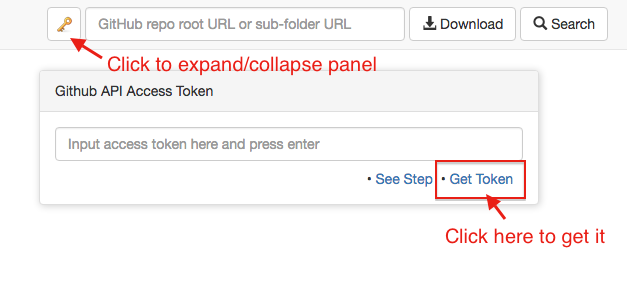
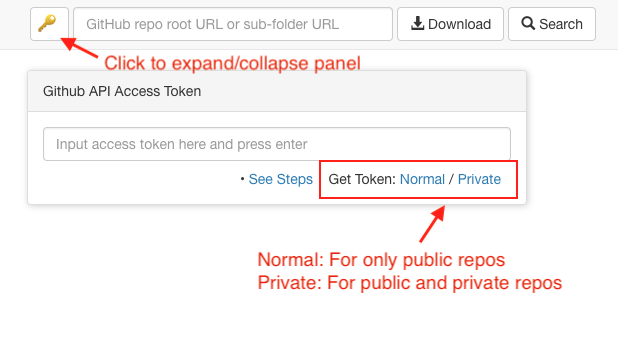
Fix #17 for both get public and private token.

Changed region(s): [[0.0615, 0.3701, 0.9838, 0.8826], [0.0615, 0.0, 0.9838, 0.3416], [0.6764, 0.0, 0.7994, 0.0285]]

diff --git a/index.html b/index.html
@@ -206,20 +206,22 @@
 				<input id="tokenInput" type="text" class="form-control" placeholder="Input access token here and press enter">
 				<div class="token-right">
 					&nbsp;&bull;&nbsp;<a href="https://github.com/KinoLien/gitzip/blob/gh-pages/get-token-step.md" target="_blank">See Steps</a>
-					&nbsp;&bull;&nbsp;<a href="https://github.com/login/oauth/authorize?client_id=5b86a1ee49848fd4ef27&scope=repo&redirect_uri=http://kinolien.github.io/gitzip/">Get Token</a>
+					&nbsp;&nbsp;&nbsp;Get Token:
+					<a href="https://github.com/login/oauth/authorize?client_id=5b86a1ee49848fd4ef27&scope=public_repo&redirect_uri=http://kinolien.github.io/gitzip/">Normal</a>&nbsp;/
+					<a href="https://github.com/login/oauth/authorize?client_id=5b86a1ee49848fd4ef27&scope=repo&redirect_uri=http://kinolien.github.io/gitzip/">Private</a>
 				</div>
 			</form>
 		</div>
 	</div>
 
-	<div id="extensionMessage" class="container" style="display: none;">
+	<!-- <div id="extensionMessage" class="container" style="display: none;">
 		<div class="alert alert-success alert-dismissable">
 		  <a href="#" class="close" data-dismiss="alert" aria-label="close">&times;</a>
 		  <a href="https://chrome.google.com/webstore/detail/gitzip-for-github/ffabmkklhbepgcgfonabamgnfafbdlkn" target="_blank"><strong>GitZip for github 0.2.0</strong></a> Chrome extension now available!
 		  <p>1. An option for get private token.</p>
       	  <p>2. Fix some errors about double click not work.</p>
 		</div>
-	</div>
+	</div> -->
 	<div id="pathContainer" class="container" style="display:none;">
 		<p class="lead">Path: <span id="pathLead"></span></p>
 	</div>
@@ -573,13 +575,13 @@
 			}
 
 			// detect is chrome 
-			if(/Chrome/.test(navigator.userAgent) && /Google Inc/.test(navigator.vendor)){
-				var hasShowMessage = _getCookie("_gitzip_ext_0_2_0_has_show");
-				if(!hasShowMessage){
-					$("#extensionMessage").show();	
-					_setCookie("_gitzip_ext_0_2_0_has_show", "yes", 365);
-				}
-			}
+			// if(/Chrome/.test(navigator.userAgent) && /Google Inc/.test(navigator.vendor)){
+			// 	var hasShowMessage = _getCookie("_gitzip_ext_0_2_0_has_show");
+			// 	if(!hasShowMessage){
+			// 		$("#extensionMessage").show();	
+			// 		_setCookie("_gitzip_ext_0_2_0_has_show", "yes", 365);
+			// 	}
+			// }
 			
 		});
 
